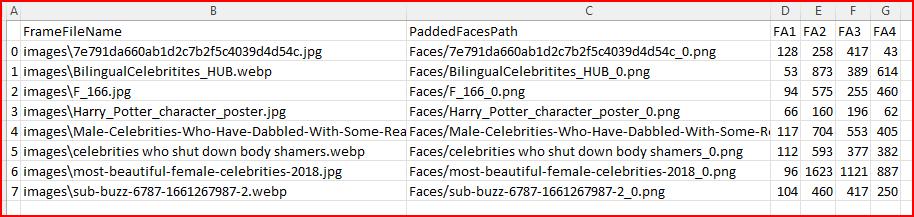
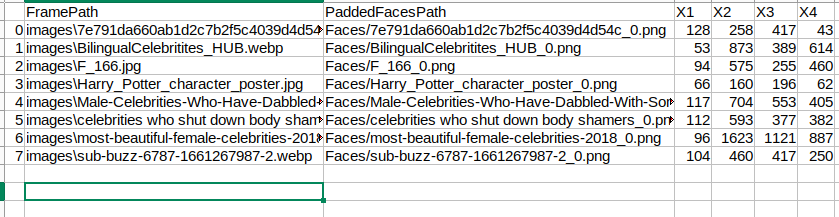
code update

diff --git a/identifyCelebrity.py b/identifyCelebrity.py
@@ -78,7 +78,7 @@ class Celebrity:
         list_of_prompts.append("a photo of ")
         faces_path = []
         detected_celebrities = []
-        results = pd.DataFrame(columns=["FrameFileName", "FacePath", "CelebrityName"])
+        results = pd.DataFrame(columns=["FramePath", "FacePath", "CelebrityName"])
         try:
             list_of_images = []
             isFolder = True
@@ -103,7 +103,7 @@ class Celebrity:
                 if s1 > 70:
                     detected_celebrity = c1.split("a photo of ")[1]
                     df_length1 = len(results)
-                    results.loc[df_length1] = [row['FrameFileName'], face_path, detected_celebrity]
+                    results.loc[df_length1] = [row['FramePath'], face_path, detected_celebrity]
                     if len(face_path) < 100:
                         faces_path.append(face_path)
                         detected_celebrities.append(detected_celebrity)

diff --git a/detectFaces.py b/detectFaces.py
@@ -23,7 +23,7 @@ class FaceDetection:
             os.makedirs(savePaddedFaces)
 
         df = pd.DataFrame(
-            columns=["FrameFileName", "PaddedFacesPath", "FA1", "FA2", "FA3", "FA4"])
+            columns=["FramePath", "PaddedFacesPath", "X1", "X2", "X3", "X4"])
 
         def get_faces(image_path):
             return detect_faces(image_path)
@@ -89,8 +89,7 @@ class FaceDetection:
                         df_length1 = len(df)
                         df.loc[df_length1] = tmp
             except Exception as e:
-                # res[image_path] = []
-                print('Error in cropping face :', e)
+                print('Error in cropping:', e)
                 pass
 
         return df

diff --git a/README.md b/README.md
@@ -16,7 +16,7 @@ The faces are detected using [retinaface](https://github.com/serengil/retinaface
 The output of the retinaface has been saved in following format
 ![img.png](img.png)
 
-* FA1, FA2, FA3 and FA4 are the coordinates of the bounding boxes of the detected faces
+* X1, X2, X3 and X4 are the coordinates of the bounding boxes of the detected faces
 * FrameFileName : Input image
 * PaddedFacesPath : Extracted faces with some padding
 
